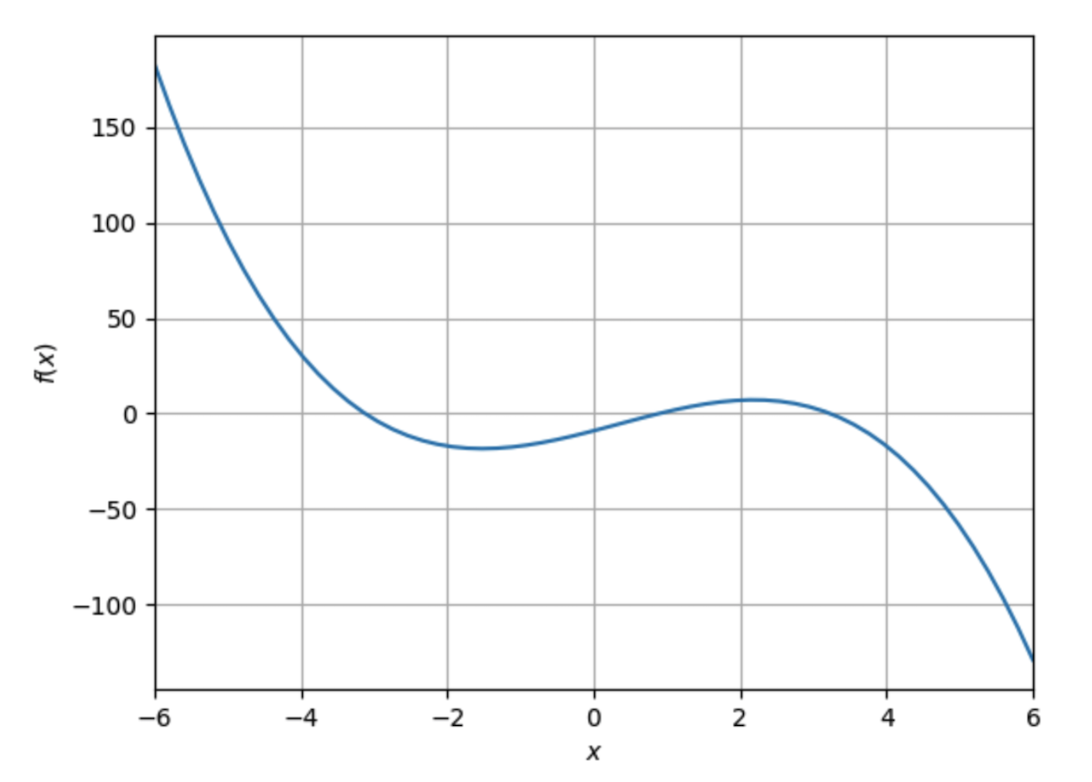
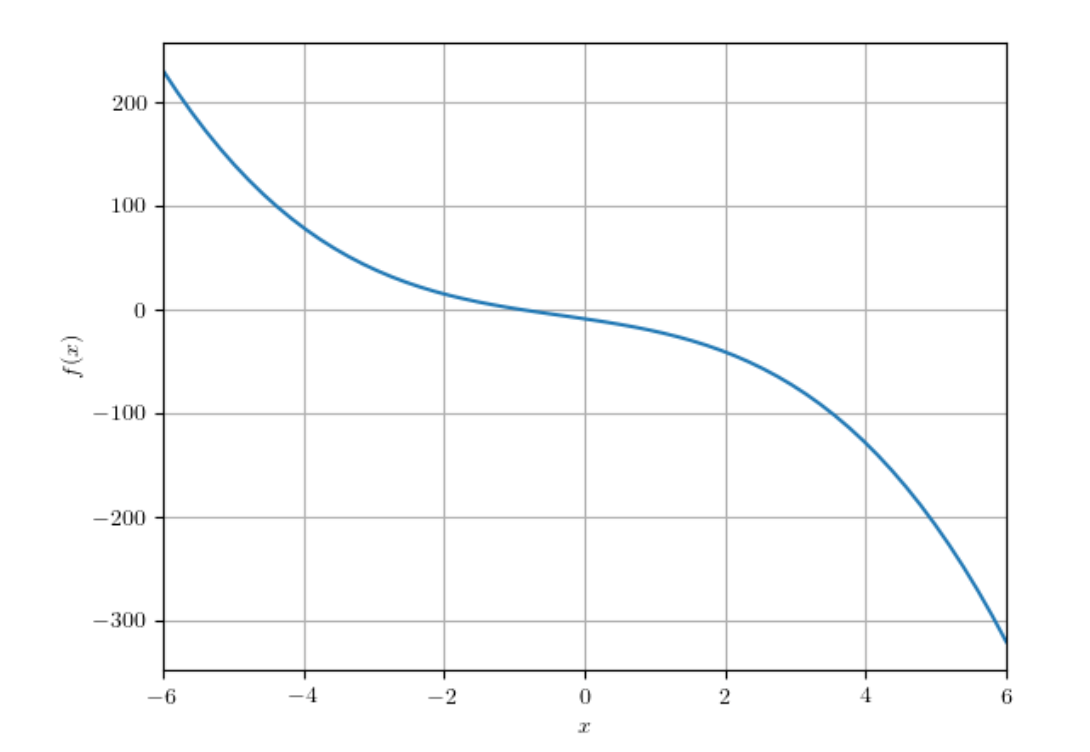
adding images to gallery

Changed region(s): [[0.0624, 0.0306, 0.967, 0.9787], [0.0312, 0.4282, 0.0936, 0.4894]]

diff --git a/exampleCourse/questions/gallery/includeFigure/simple/question.html b/exampleCourse/questions/gallery/includeFigure/simple/question.html
@@ -1,14 +1,14 @@
 <pl-question-panel>
 <p>
-  The function $f(x) = -x^3 + x^2 + 10x - 9$ is illustrated below.  Select the values of $x$
+  The function $f(x) = -x^3 - x^2 - 10x - 9$ is illustrated below.  Select the values of $x$
   corresponding to positive function values.
 </p>
 <pl-figure file-name=static_image.png directory='clientFilesQuestion'></pl-figure>
 </pl-question-panel>
 
 <pl-checkbox answers-name="select" hide-letter-keys="true" >
-    <pl-answer correct="true">  $x = -4$ </pl-answer>
+    <pl-answer correct="true">  $x = -6$ </pl-answer>
+    <pl-answer correct="true">  $x = -2$ </pl-answer>
     <pl-answer correct="false"> $x = 0$ </pl-answer>
-    <pl-answer correct="true">  $x = 2$ </pl-answer>
-    <pl-answer correct="false"> $x = 6$ </pl-answer>
+    <pl-answer correct="false"> $x = 4$ </pl-answer>
 </pl-checkbox>

diff --git a/exampleCourse/questions/gallery/multipleChoice/advanced/question.html b/exampleCourse/questions/gallery/multipleChoice/advanced/question.html
@@ -16,7 +16,7 @@
           <pl-dimensions x1="40" y1="200" x2="100"  y2="200"  label="d" ></pl-dimensions>
       </pl-drawing-initial>
   </pl-drawing>
-  </p>
+</p>
 
 <p>
  {{params.question_text}} Assume the acceleration due to gravity is $g=9.8 \rm\ m/s^2$.

diff --git a/exampleCourse/questions/gallery/includeFigure/complex/server.py b/exampleCourse/questions/gallery/includeFigure/complex/server.py
@@ -3,8 +3,8 @@ import io
 import random
 import numpy as np
 import sympy as sym
-# import matplotlib as ml
-# ml.rcParams['text.usetex'] = True
+import matplotlib as ml
+ml.rcParams['text.usetex'] = True
 
 def func(x,a,b,c):
     return a*x**3 + b*x**2 + c*x - 9

diff --git a/exampleCourse/questions/gallery/includeFigure/gallery.md b/exampleCourse/questions/gallery/includeFigure/gallery.md
@@ -3,13 +3,14 @@ title: Include Figure
 summary: Adding static or dynamic figures to questions
 ---
 
-This is an example showing how we can add an image to a question:
-
-![A figure showing a graphed polynomial](./galleryImage.png)
 
 ### Simple example
 
-In this simple implementation, we only need to write the HTML file `question.html`:
+This is an example showing how we can add an image to a question
+
+![](figSimpleQuestion.png)
+
+where we only need to write the HTML file `question.html`:
 
 
 ```html src=simple/question.html
@@ -23,6 +24,7 @@ The plot is added from a static image `static_image.png` using the element `pl-f
 
 The same example can be generated using randomized parameters, as illustrated in this `question.html` file:
 
+![](figComplexQuestion.png)
 
 ```html src=complex/question.html
 contents

diff --git a/exampleCourse/questions/gallery/multipleChoice/gallery.md b/exampleCourse/questions/gallery/multipleChoice/gallery.md
@@ -5,12 +5,19 @@ summary: Allow students to select from multiple options.
 
 ### Simple example
 
+This is a simple example for a multiple-choice question. 
+
+![](figSimpleQuestion.png)
+
 ```html src=simple/question.html
 contents
 ```
 
 ### Complex example
 
+We can add variation to the above example by randomizing the provided numerical parameters. Here we present the same example question, however, the question parameters are generated in `server.py`.
+
+![](figComplexQuestion.png)
 
 Here is a more complex example:
 
@@ -27,6 +34,8 @@ contents
 
 
 Feeling adventurous? Take a look at another variant of the same example, which incorporates even more randomization, and created the image dynamically using `pl-drawing`.
+
+![](figAdvancedQuestion.png)
 
 ```html src=complex/question.html
 contents

diff --git a/exampleCourse/questions/gallery/checkbox/gallery.md b/exampleCourse/questions/gallery/checkbox/gallery.md
@@ -1,9 +1,11 @@
 ---
 title: Checkbox
-summary: Allow students to select answers from given options.
+summary: Select answers from given options.
 ---
 
 ### Simple example
+
+![](figSimpleQuestion.png)
 
 ```html src=simple/question.html
 contents
@@ -11,6 +13,8 @@ contents
 
 ### Complex example
 
+
+![](figComplexQuestion.png)
 
 Here is a more complex example:
 
